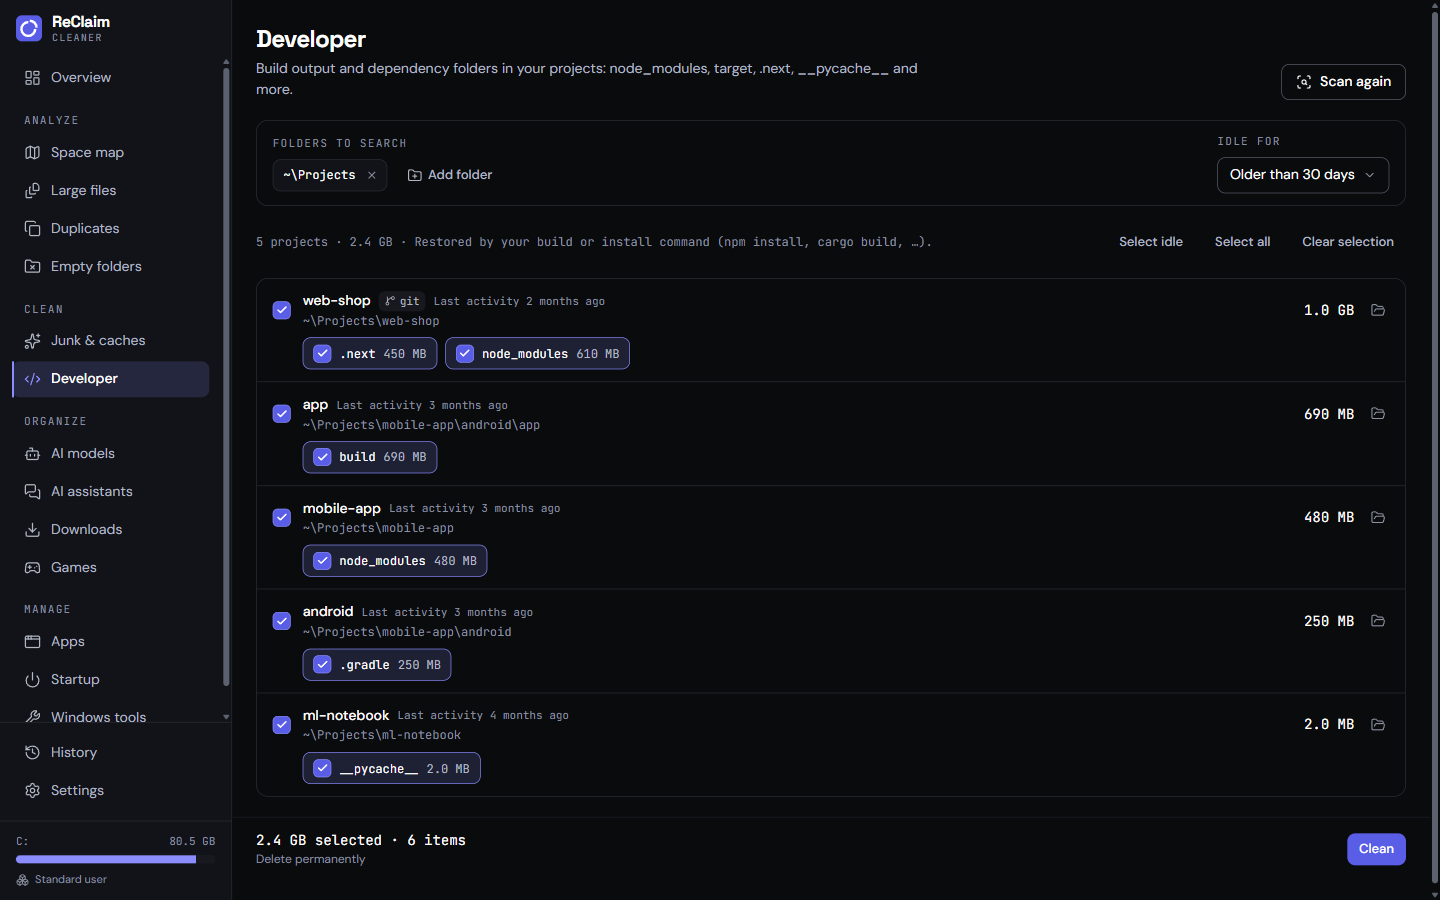
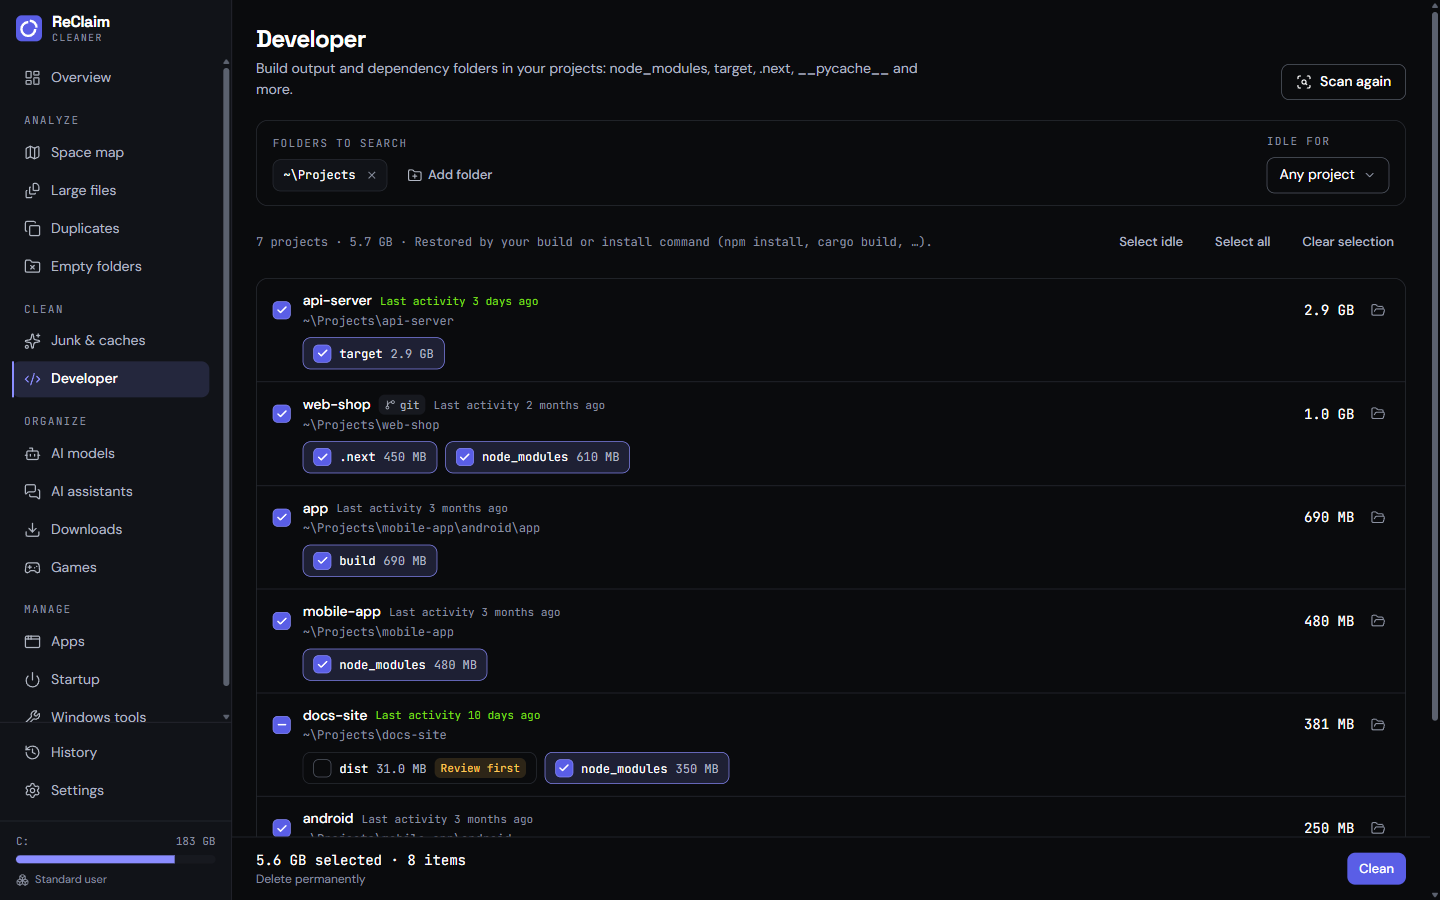
feat(ui): list and select every project on the Developer page by default

diff --git a/src/pages/Projects.tsx b/src/pages/Projects.tsx
@@ -7,6 +7,7 @@ import { Badge, Button, Card, Checkbox, EmptyState, PageHeader, RiskBadge, Selec
 import { cx } from "../lib/cx";
 import { api } from "../lib/api";
 import { daysSince, formatAgo } from "../lib/format";
+import { idleProjects, safeArtifactPaths } from "../lib/recommend";
 import type { CleanReport, DeleteMethod, Project } from "../lib/types";
 import { effectiveRoots, errorText, useApp } from "../store/app";
 
@@ -16,7 +17,8 @@ export function ProjectsPage() {
   const locale = useLocale();
   const { info, settings, projects, running, scanProjects, saveSettings, toast, refreshDrives } = useApp();
   const roots = effectiveRoots(settings, info);
-  const [idle, setIdle] = useState<number>(settings?.idleDays ?? 30);
+  // Every project is listed and selected by default; "Select idle" narrows it to the idle ones.
+  const [idle, setIdle] = useState<number>(0);
   const [manual, setManual] = useState<{ for: Project[] | null; set: Set<string> } | null>(null);
   const [confirm, setConfirm] = useState(false);
   const [method, setMethod] = useState<DeleteMethod>(settings?.cacheDelete ?? "permanent");
@@ -26,16 +28,12 @@ export function ProjectsPage() {
 
   const list: Project[] = useMemo(() => (projects ?? []).filter((p) => idle === 0 || daysSince(p.lastActivity) >= idle), [projects, idle]);
 
-  const idleDefault = useMemo(() => {
-    const next = new Set<string>();
-    for (const p of projects ?? []) if (daysSince(p.lastActivity) >= (settings?.idleDays ?? 30)) for (const a of p.artifacts) if (a.risk === "safe") next.add(a.path);
-    return next;
-  }, [projects, settings?.idleDays]);
+  const allSafe = useMemo(() => safeArtifactPaths(projects ?? []), [projects]);
   // A manual selection only applies to the scan it was made on.
-  const selected = manual && manual.for === projects ? manual.set : idleDefault;
+  const selected = manual && manual.for === projects ? manual.set : allSafe;
   const setSelected = (next: Set<string> | ((prev: Set<string>) => Set<string>)) =>
     setManual({ for: projects, set: typeof next === "function" ? next(selected) : next });
-  const selectIdle = () => setManual(null);
+  const selectIdle = () => setSelected(safeArtifactPaths(idleProjects(projects ?? [], settings?.idleDays ?? 30)));
 
   const all = list.flatMap((p) => p.artifacts);
   const chosen = all.filter((a) => selected.has(a.path));

diff --git a/src/lib/recommend.test.ts b/src/lib/recommend.test.ts
@@ -1,5 +1,5 @@
 import { describe, expect, it } from "vitest";
-import { buildRecommendations, defaultSelection, mergeReports } from "./recommend";
+import { buildRecommendations, defaultSelection, idleProjects, mergeReports, safeArtifactPaths } from "./recommend";
 import type { Project, Settings, TargetResult, TargetRule } from "./types";
 
 const t = (key: string, opts?: Record<string, unknown>) => `${key}${opts ? JSON.stringify(opts) : ""}`;
@@ -97,6 +97,23 @@ describe("buildRecommendations", () => {
   it("uses Turkish names", () => {
     const trRecs = buildRecommendations({ rules, junk, projects: null, installers: null, settings, lang: "tr", profile: "", t, now });
     expect(trRecs.find((r) => r.key === "rule:npm")?.title).toBe("npm-tr");
+  });
+});
+
+describe("safeArtifactPaths", () => {
+  const now = Date.UTC(2026, 9, 16);
+  const art = (path: string, risk: "safe" | "review") => ({ path, ruleId: "x", dirName: path.split("\\").pop() ?? "", risk, bytes: 1, files: 1 });
+  const projects: Project[] = [
+    { path: "C:\\p\\old", name: "old", lastActivity: now / 1000 - 90 * 86400, hasGit: false, bytes: 2, artifacts: [art("C:\\p\\old\\node_modules", "safe"), art("C:\\p\\old\\.venv", "review")] },
+    { path: "C:\\p\\new", name: "new", lastActivity: now / 1000 - 2 * 86400, hasGit: false, bytes: 1, artifacts: [art("C:\\p\\new\\target", "safe")] },
+  ];
+
+  it("selects the safe folders of every project, active ones too", () => {
+    expect([...safeArtifactPaths(projects)].sort()).toEqual(["C:\\p\\new\\target", "C:\\p\\old\\node_modules"]);
+  });
+
+  it("narrows to idle projects when combined with idleProjects", () => {
+    expect([...safeArtifactPaths(idleProjects(projects, 30, now))]).toEqual(["C:\\p\\old\\node_modules"]);
   });
 });
 

diff --git a/src/lib/recommend.ts b/src/lib/recommend.ts
@@ -44,6 +44,11 @@ export function idleProjects(projects: Project[], idleDays: number, now = Date.n
   return projects.filter((p) => daysSince(p.lastActivity, now) >= idleDays);
 }
 
+/** Build folders that rebuild themselves; `review` ones (like a venv) are never preselected. */
+export function safeArtifactPaths(projects: Project[]): Set<string> {
+  return new Set(projects.flatMap((p) => p.artifacts.filter((a) => a.risk === "safe").map((a) => a.path)));
+}
+
 export function buildRecommendations(args: {
   rules: TargetRule[];
   junk: TargetResult[] | null;

diff --git a/README.tr.md b/README.tr.md
@@ -16,7 +16,7 @@ Ekran görüntüleri gerçek bir bilgisayarda değil, üretilmiş bir demo profi
 - **Dosya Gezgini'nden analiz.** Klasörlerde, klasör arka planında ve sürücülerde isteğe bağlı "ReClaim ile analiz et" girdisi, yalnızca geçerli kullanıcı için. Windows 11'de "Diğer seçenekleri göster" altında durur; yeni üst düzey menü yalnızca imzalı uygulama paketlerini kabul eder, ReClaim henüz böyle bir paket sunmuyor.
 - **Bunu ne kullanıyor?** Bir dosyayı ya da klasörü hangi uygulamaların, hizmetlerin ya da Windows işlemlerinin tuttuğunu Büyük dosyalar, Alan haritası ve başarısız temizliklerden gösterir. Tek eylem nazikçe kapatmadır, hiçbir zaman zorla kapatma değil.
 - **Gereksiz dosyalar.** Bilinen 233 konum: Windows geçici dosyaları ve kayıtları, çökme dökümleri, tarayıcı önbellekleri (Chrome, Edge, Brave, Firefox ve diğerleri), uygulama önbellekleri (Discord, Slack, Teams, VS Code, Spotify), oyun başlatıcıları ve geliştirici önbellekleri (npm, pnpm, pip, uv, Cargo, Gradle, NuGet, Go, Playwright).
-- **Geliştirici.** Projelerindeki `node_modules`, `target`, `.next`, `__pycache__`, `.venv` ve 40 başka derleme klasörünü bulur; sadece 30 gündür dokunmadığın projeleri önceden seçer.
+- **Geliştirici.** Projelerindeki `node_modules`, `target`, `.next`, `__pycache__`, `.venv` ve 40 başka derleme klasörünü bulur. Her proje, yeniden oluşturulabilen klasörleri seçili olarak listelenir; "Boştakileri seç" seçimi 30 gündür dokunmadığın projelere daraltır.
 - **YZ modelleri ve asistanları.** Hugging Face, LM Studio, Ollama ve ComfyUI'deki tüm modeller tek listede, iki araçta birden saklananlar işaretli; Claude Code, Codex ve Gemini CLI'ın tuttuğu oturumlar, kontrol noktaları ve kayıtlar.
 - **İndirilenler.** İndirilenler klasörün türe ve yaşa göre, küçük resimlerle; `dosya (1).pdf` gibi tekrar indirmeler işaretli.
 - **Oyunlar.** Her sürücüdeki Steam kütüphaneleri ve her oyunun adıyla gölgelendirici önbelleği; kaldırdığın oyunların önbellekleri önceden seçili gelir.

diff --git a/README.md b/README.md
@@ -14,7 +14,7 @@ An open-source disk cleaner and space analyzer for Windows 10 and 11. It shows w
 - **Analyze from Explorer.** An optional "Analyze with ReClaim" entry on folders, folder backgrounds and drives, for the current user only. On Windows 11 it sits under "Show more options"; the new top-level menu only takes signed app packages, which ReClaim does not ship yet.
 - **What is using this?** Shows which apps, services or Windows processes hold a file or folder, from Large files, the Space map and failed cleans. The only action is a graceful close, never a forced one.
 - **Junk and caches.** 233 known locations: Windows temp and logs, crash dumps, browser caches (Chrome, Edge, Brave, Firefox and more), app caches (Discord, Slack, Teams, VS Code, Spotify), game launchers, and developer caches (npm, pnpm, pip, uv, Cargo, Gradle, NuGet, Go, Playwright).
-- **Developer.** Finds `node_modules`, `target`, `.next`, `__pycache__`, `.venv` and 40 other build folders inside your projects, and preselects only projects you have not touched for 30 days.
+- **Developer.** Finds `node_modules`, `target`, `.next`, `__pycache__`, `.venv` and 40 other build folders inside your projects. Every project is listed with its rebuildable folders selected; "Select idle" narrows that to projects you have not touched for 30 days.
 - **AI models and assistants.** Every model in Hugging Face, LM Studio, Ollama and ComfyUI in one list, with copies stored by two tools flagged; and the sessions, checkpoints and logs that Claude Code, Codex and Gemini CLI keep.
 - **Downloads.** Your Downloads folder by type and age, with thumbnails and browser re-downloads such as `file (1).pdf` flagged.
 - **Games.** Steam libraries on every drive and the shader cache of each game, named after the game; caches of games you removed are preselected.

diff --git a/CHANGELOG.md b/CHANGELOG.md
@@ -4,6 +4,10 @@ All notable changes to this project are documented here. The format follows [Kee
 
 ## [Unreleased]
 
+### Changed
+
+- Developer page: every project is listed and all of its rebuildable folders are selected by default ("Idle for" starts at "Any project"). "Select idle" narrows the selection to projects untouched for the number of days set in Settings. Folders marked "Review first", such as virtual environments, are still not preselected.
+
 ## [0.2.0] - 2026-10-16
 
 ### Added
